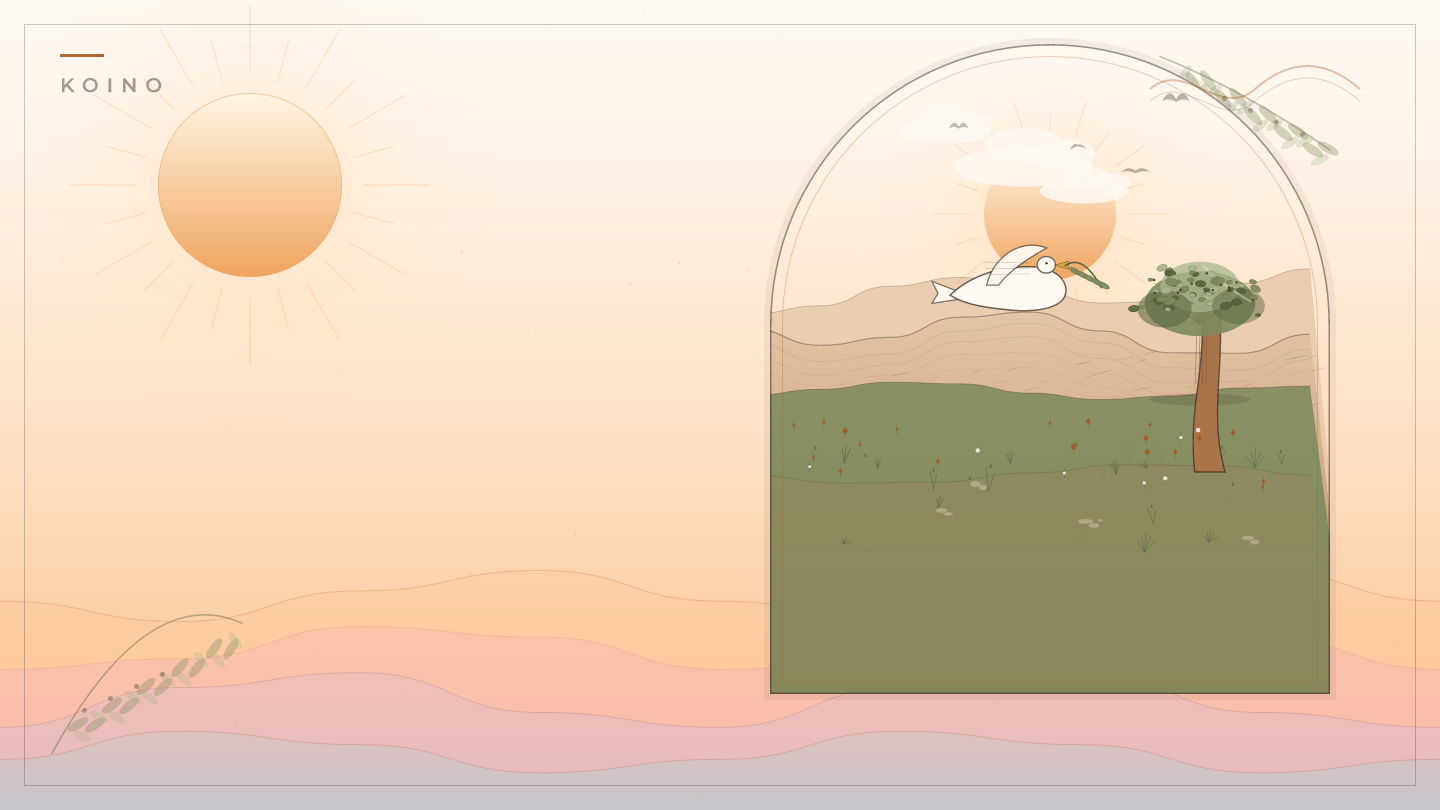
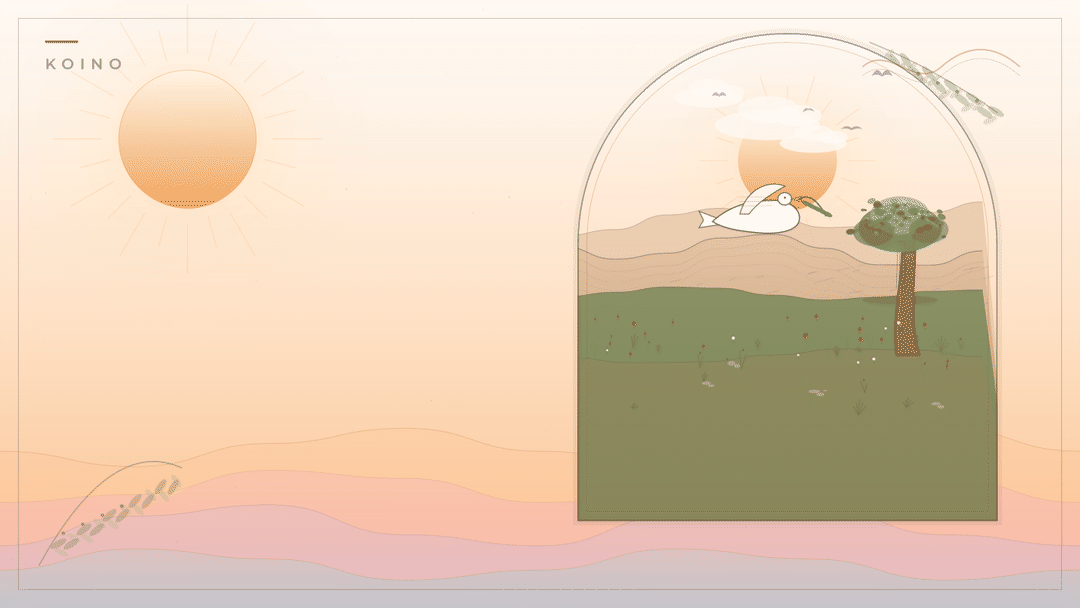
perf(bible-plans): shrink cover art by 52%
Downscale the 1440x810 exports to 1080x608 and encode as 256-colour dithered PNGs: 3.47 MB -> 1.82 MB (169 KB -> 87 KB average) with no visible loss at card size. Adds design/optimize-bible-plan-art.py and documents the step.

diff --git a/design/optimize-bible-plan-art.py b/design/optimize-bible-plan-art.py
@@ -1,0 +1,77 @@
+"""Optimize Bible-plan cover PNGs.
+
+Downscales the 1440x810 exports to a size that still covers the largest card
+render, then quantizes to an 8-bit palette. Keeps a lossless backup of the
+originals so the change can be reverted.
+"""
+import argparse
+import shutil
+from pathlib import Path
+
+from PIL import Image
+
+ROOT = Path(__file__).resolve().parent.parent
+ASSETS = ROOT / "assets" / "bible-plans"
+BACKUP = ROOT / "design" / ".cover-originals"
+OUT = ROOT / "design" / ".cover-optimized"
+
+
+def optimize(src: Path, dst: Path, width: int, colors: int, dither: bool, keep_rgb: bool = False) -> tuple[int, int]:
+    image = Image.open(src).convert("RGB")
+    height = round(image.height * width / image.width)
+    image = image.resize((width, height), Image.LANCZOS)
+    if keep_rgb:
+        image.save(dst, format="PNG", optimize=True, compress_level=9)
+    else:
+        base = image.quantize(colors=colors, method=Image.MEDIANCUT)
+        quantized = image.quantize(palette=base, dither=Image.FLOYDSTEINBERG if dither else Image.Dither.NONE)
+        quantized.save(dst, format="PNG", optimize=True, compress_level=9)
+    return src.stat().st_size, dst.stat().st_size
+
+
+def main() -> None:
+    parser = argparse.ArgumentParser()
+    parser.add_argument("--width", type=int, default=1080)
+    parser.add_argument("--colors", type=int, default=256)
+    parser.add_argument("--dither", action="store_true", default=True)
+    parser.add_argument("--no-dither", dest="dither", action="store_false")
+    parser.add_argument("--keep-rgb", action="store_true", help="resize only, keep 24-bit color")
+    parser.add_argument("--apply", action="store_true", help="replace the committed covers")
+    parser.add_argument("--only", default="", help="comma-separated cover keys")
+    args = parser.parse_args()
+
+    files = sorted(ASSETS.glob("*.png"))
+    if args.only:
+        wanted = set(args.only.split(","))
+        files = [f for f in files if f.stem in wanted]
+    if not files:
+        raise SystemExit("no covers found")
+
+    OUT.mkdir(parents=True, exist_ok=True)
+    if args.apply:
+        BACKUP.mkdir(parents=True, exist_ok=True)
+        for f in files:
+            backup = BACKUP / f.name
+            if not backup.exists():
+                shutil.copy2(f, backup)
+
+    before = after = 0
+    rows = []
+    for src in files:
+        dst = OUT / src.name
+        b, a = optimize(src, dst, args.width, args.colors, args.dither, args.keep_rgb)
+        before += b
+        after += a
+        rows.append((src.stem, b, a))
+        if args.apply:
+            shutil.copy2(dst, src)
+
+    for name, b, a in rows:
+        print(f"{name:24s} {b / 1024:7.1f} KB -> {a / 1024:6.1f} KB  ({a / b * 100:4.0f}%)")
+    print(f"{'TOTAL':24s} {before / 1024 / 1024:7.2f} MB -> {after / 1024 / 1024:5.2f} MB  ({after / before * 100:4.0f}%)")
+    if args.apply:
+        print(f"backups in {BACKUP.relative_to(ROOT)}")
+
+
+if __name__ == "__main__":
+    main()

diff --git a/docs/bible-plan-library.md b/docs/bible-plan-library.md
@@ -62,7 +62,13 @@ type BiblePlanTemplate = {
 
    The FigCraft source is `design/bible-plan-covers.figcraft` (page `Bible Plan Illustrations`). Set `ONLY=<scene>` to iterate on a single cover, or `SKIP_EXPORT=1` to preview without writing assets.
 
-4. Run the checks:
+4. Shrink the exported PNGs before committing (downscale to 1080×608, 256-colour dithered palette; ~50% smaller with no visible loss at card size):
+
+   ```sh
+   python design/optimize-bible-plan-art.py --apply
+   ```
+
+5. Run the checks:
 
    ```sh
    npm run typecheck
